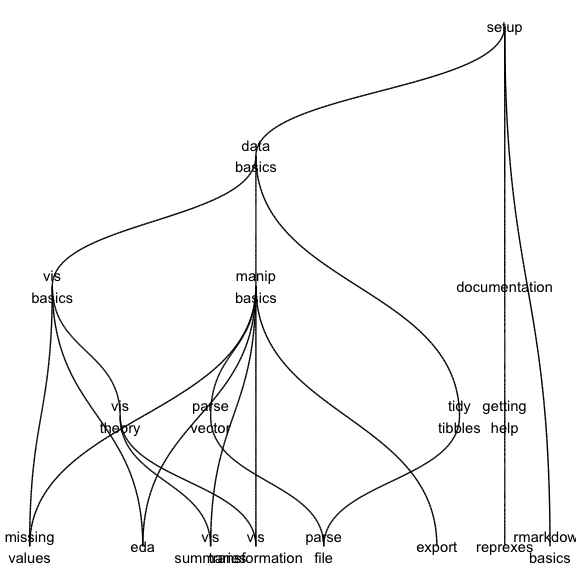
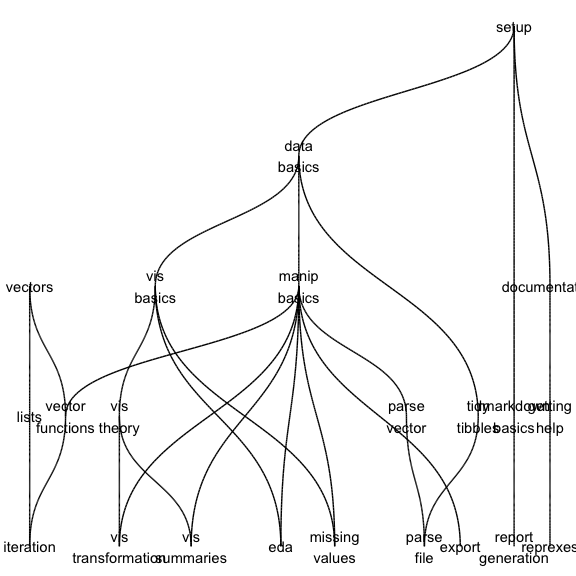
First pass on week 4

diff --git a/docs/report-generation.md b/docs/report-generation.md
@@ -1,0 +1,36 @@
+---
+title: Generating multiple reports
+---
+
+<!-- Generated automatically from report-generation.yml. Do not edit by hand -->
+
+# Generating multiple reports
+
+So far you've turned `.Rmd` files into fully-fleshed reports using
+RStudio. It is also useful to know how to do so programmatically so that
+you can automate your R Markdown workflow. This is particularly useful
+in conjunction with parameterised reports and `purrr::pwalk()`.
+
+This technique isn't discussed frequently, but I think it's extremely
+powerful. It might stretch your brain a bit, and you might not understand
+exactly how it works, but it's useful pattern to know.
+
+## Readings
+
+  * [http://rmarkdown.rstudio.com/developer_parameterized_reports.html](http://rmarkdown.rstudio.com/developer_parameterized_reports.html).
+    Focus particularly on the "passing parameters" section as that shows how to
+    call `rmarkdown::render()`, which is the code equivalent of the "knit"
+    button in RStudio.
+
+  * [Mapping over multiple arguments](http://r4ds.had.co.nz/iteration.html#mapping-over-multiple-arguments) [r4ds-21.7]
+
+  * [Walk](http://r4ds.had.co.nz/iteration.html#walk) [r4ds-21.8].
+    The purrr function we're going to use is `pwalk()`. It isn't described in
+    much detail in R4DS but it's a straightforward combination of `pmap()` and
+    `walk()`.
+
+  * [YAML header](http://r4ds.had.co.nz/r-markdown.html#yaml-header) [r4ds-27.6].
+    Focus on §27.6.1
+
+
+

diff --git a/docs/vector-functions.md b/docs/vector-functions.md
@@ -1,0 +1,34 @@
+---
+title: Vector functions
+---
+
+<!-- Generated automatically from vector-functions.yml. Do not edit by hand -->
+
+# Vector functions
+
+Functions are powerful tool for reducing the amount of duplication in your
+code. Reducing duplicationg is a good principle because it means that
+each "fact" in your code is only stored in one place. When the requirements
+of your code change (as they invariably do), you only need to make the
+change in a single place, reducing the chances of inconsistencies within
+your code.
+
+To start with, we'll focus on functions that work with vectors. There
+are two common types:
+
+* Vectorised functions that return an output the same length as their
+  input. You typically use these functions in `mutate()`.
+
+* Summary functions that return an output of length one. You typically
+  use these functions with `summarise()`.
+
+## Readings
+
+  * [Introduction](http://r4ds.had.co.nz/functions.html#introduction-12) [r4ds-19.1]
+
+  * [When should you write a function?](http://r4ds.had.co.nz/functions.html#when-should-you-write-a-function) [r4ds-19.2]
+
+  * [Functions are for humans and computers](http://r4ds.had.co.nz/functions.html#functions-are-for-humans-and-computers) [r4ds-19.3]
+
+
+

diff --git a/docs/vectors.md b/docs/vectors.md
@@ -6,7 +6,7 @@ title: Vectors
 
 # Vectors
 
-The tidyverse functions that you've focussed on so far are holistic: they take a complete data frame and perform various transformations on it. However, when writing your own functions it's better to start vectors because they are much simpler. In this unit, you'll learn a bit about the underlying theory of vectors.
+The tidyverse functions that you've focussed on so far are holistic: they take a complete data frame and perform various transformations on it. When writing your own functions it's better to start with functions that work with vectors because they are much simpler. You've used vectors quite a bit, but we haven't yet discussed them in detail.
 
 ## Readings
 

diff --git a/docs/iteration.md b/docs/iteration.md
@@ -1,0 +1,21 @@
+---
+title: Iteration
+---
+
+<!-- Generated automatically from iteration.yml. Do not edit by hand -->
+
+# Iteration
+
+Functions allow you to eliminate one type of duplication. The tools
+of iteration, for loops and functional programming, allow you to eliminate
+another. It's good to understand how for loops work, but in this class
+we'll mostly focus on the `map()` functions from purrr.
+
+## Readings
+
+  * [For loops](http://r4ds.had.co.nz/iteration.html#for-loops) [r4ds-21.2]
+
+  * [The map functions](http://r4ds.had.co.nz/iteration.html#the-map-functions) [r4ds-21.5]
+
+
+

diff --git a/docs/lists.md b/docs/lists.md
@@ -1,0 +1,21 @@
+---
+title: Lists
+---
+
+<!-- Generated automatically from lists.yml. Do not edit by hand -->
+
+# Lists
+
+Lists are R's most flexible data structure because you can put anything
+inside a list, even other lists. They power tibbles and data frames,
+and most other complex object types (e.g. linear models).
+
+## Readings
+
+  * [Using atomic vectors](http://r4ds.had.co.nz/vectors.html#using-atomic-vectors) [r4ds-20.4]
+
+  * [Augmented vectors](http://r4ds.had.co.nz/vectors.html#augmented-vectors) [r4ds-20.7].
+    Now it's time to focus on §20.7.3
+
+
+

diff --git a/docs/README.md b/docs/README.md
@@ -82,6 +82,10 @@ automating your workflow.
 ### Units
 
 1. [Vectors](vectors.md)
+1. [Vector functions](vector-functions.md)
+1. [Lists](lists.md)
+1. [Iteration](iteration.md)
+1. [Generating multiple reports](report-generation.md)
 1. [Reprexes](reprexes.md)
 
 
